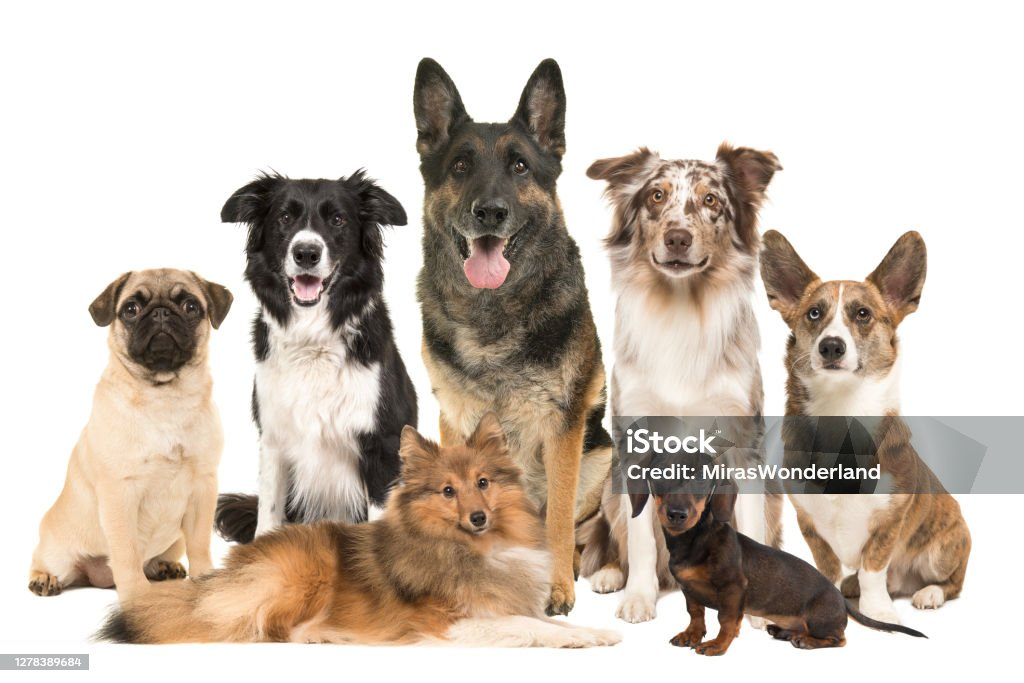
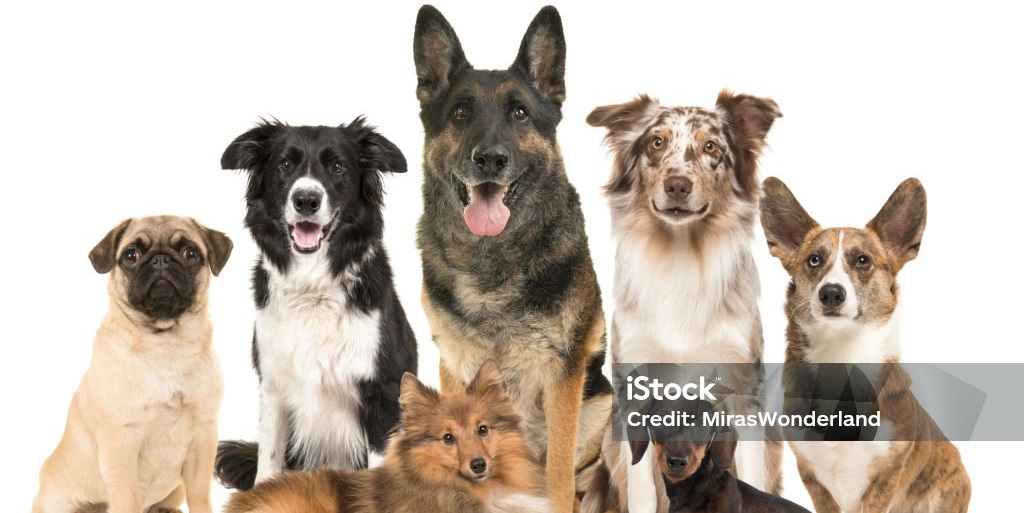
change img

diff --git a/main.html b/main.html
@@ -26,28 +26,28 @@
             <section class="carousel">
                 <ol class="carousel_viewport" aria-label="Gallery">
                     <li id="carousel_slide1" tabindex="0" class="carousel_slide">
-                        <a href="#findTheDogs"><img src="image/FindTheDogs.jpg" alt="find a dog" class="dogFinderImg"></a>
+                        <a href="#findTheDogs"><img src="image/FindTheDogsSize.jpg" alt="find a dog" class="dogFinderImg"></a>
                         <div class="carousel_snapper">
                             <a href="#carousel_slide4" class="carousel_prev">Go to last slide</a>
                             <a href="#carousel_slide2" class="carousel_next">Go to next slide</a>
                         </div>
                     </li>
                     <li id="carousel_slide2" tabindex="0" class="carousel_slide">
-                        <a href="#dogBreeds"><img src="image/DogBreeds.jpg" alt="dog breeds" class="dogsImg"></a>
+                        <a href="#dogBreeds"><img src="image/DogBreedsSize.jpg" alt="dog breeds" class="dogsImg"></a>
                         <div class="carousel_snapper">
                             <a href="#carousel_slide1" class="carousel_prev">Go to previous slide</a>
                             <a href="#carousel_slide3" class="carousel_next">Go to next slide</a>
                         </div>
                     </li>
                     <li id="carousel_slide3" tabindex="0" class="carousel_slide">
-                        <a href="#careAdvice"><img src="image/DogCare.jpg" alt="care and advice" class="adviceImg"></a>
+                        <a href="#careAdvice"><img src="image/DogCareSize.jpg" alt="care and advice" class="adviceImg"></a>
                         <div class="carousel_snapper">
                             <a href="#carousel_slide2" class="carousel_prev">Go to previous slide</a>
                             <a href="#carousel_slide4" class="carousel_next">Go to next slide</a>
                         </div>
                     </li>
                     <li id="carousel_slide4" tabindex="0" class="carousel_slide">
-                        <a href="#dev"><img src="image/Developer.jpg" alt="developers" class="developersImg"></a>
+                        <a href="#dev"><img src="image/DeveloperSize.jpg" alt="developers" class="developersImg"></a>
                         <div class="carousel_snapper">
                             <a href="#carousel_slide3" class="carousel_prev">Go to previous slide</a>
                             <a href="#carousel_slide1" class="carousel_next">Go to first slide</a>
